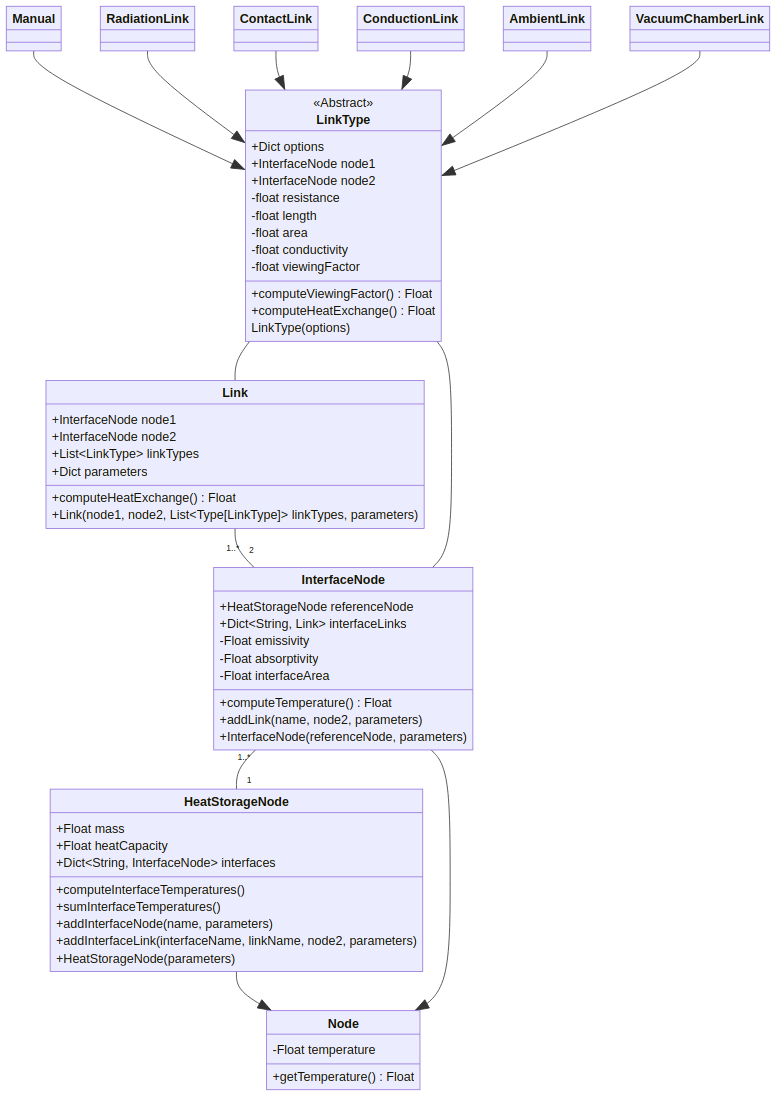
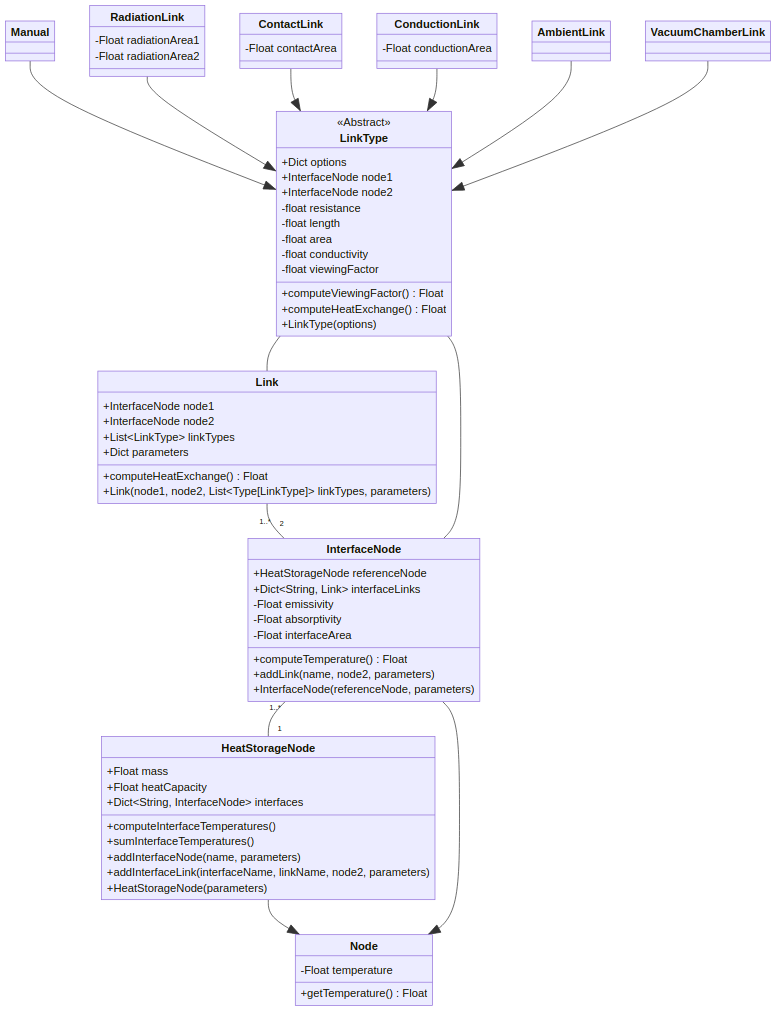
fix heat exchang computations for IFN

Changed region(s): [[0.0612, 0.0, 1.0, 1.0], [0.0, 0.0, 0.0918, 0.0607]]

diff --git a/thermalmodel/nodes.py b/thermalmodel/nodes.py
@@ -1,7 +1,7 @@
 #!/usr/bin/env python3
 
 from __future__ import annotations
-from typing import Dict
+from typing import Dict, List, Type
 # from typing import TYPE_CHECKING
 
 # if TYPE_CHECKING:
@@ -42,8 +42,10 @@ class HeatStorageNode(Node):
         return self.interfaces[name]
 
     def addInterfaceLink(self, iname: str, lname: str,
-                         node2: InterfaceNode, parameters: dict):
-        self.interfaces[iname].addLink(lname, node2, parameters)
+                         node2: InterfaceNode,
+                         linkTypes: List[Type[LinkType]],
+                         parameters: dict):
+        self.interfaces[iname].addLink(lname, node2, linkTypes, parameters)
         return self.interfaces[iname].interfaceLinks[lname]
 
 
@@ -54,20 +56,24 @@ class InterfaceNode(Node):
 
         self.referenceNode: HeatStorageNode = referenceNode
 
-        # self._temperature: float   = parameters.get('temperature', -1)
+        self._temperature: float  = None  # TODO: get temp from HSN
+        self._heatExchange: float = -1
+
         self._emissivity: float    = parameters.get('emissivity', -1)
         self._absorptivity: float  = parameters.get('absorptivity', -1)
 
         self.interfaceLinks: Dict[str, Link] = {}
 
-    def computeTemperature(self):
-        self._temperature = sum((
+    def computeHeatExchange(self):
+        self._heatExchange = sum((
             link.computeHeatExchange() for link in self.interfaceLinks.values()
-            ))
-        return self._temperature
+        ))
+        return self._heatExchange
 
-    def addLink(self, name: str, node2: InterfaceNode, parameters: dict):
+    def addLink(self, name: str, node2: InterfaceNode,
+                linkTypes: List[Type[LinkType]],
+                parameters: dict):
         if self.interfaceLinks.get(name, None):
             raise KeyError(f"Key {name} already exists in HeatStorageNode")
-        self.interfaceLinks[name] = Link(self, node2, parameters)
+        self.interfaceLinks[name] = Link(self, node2, linkTypes, parameters)
         return self.interfaceLinks[name]
